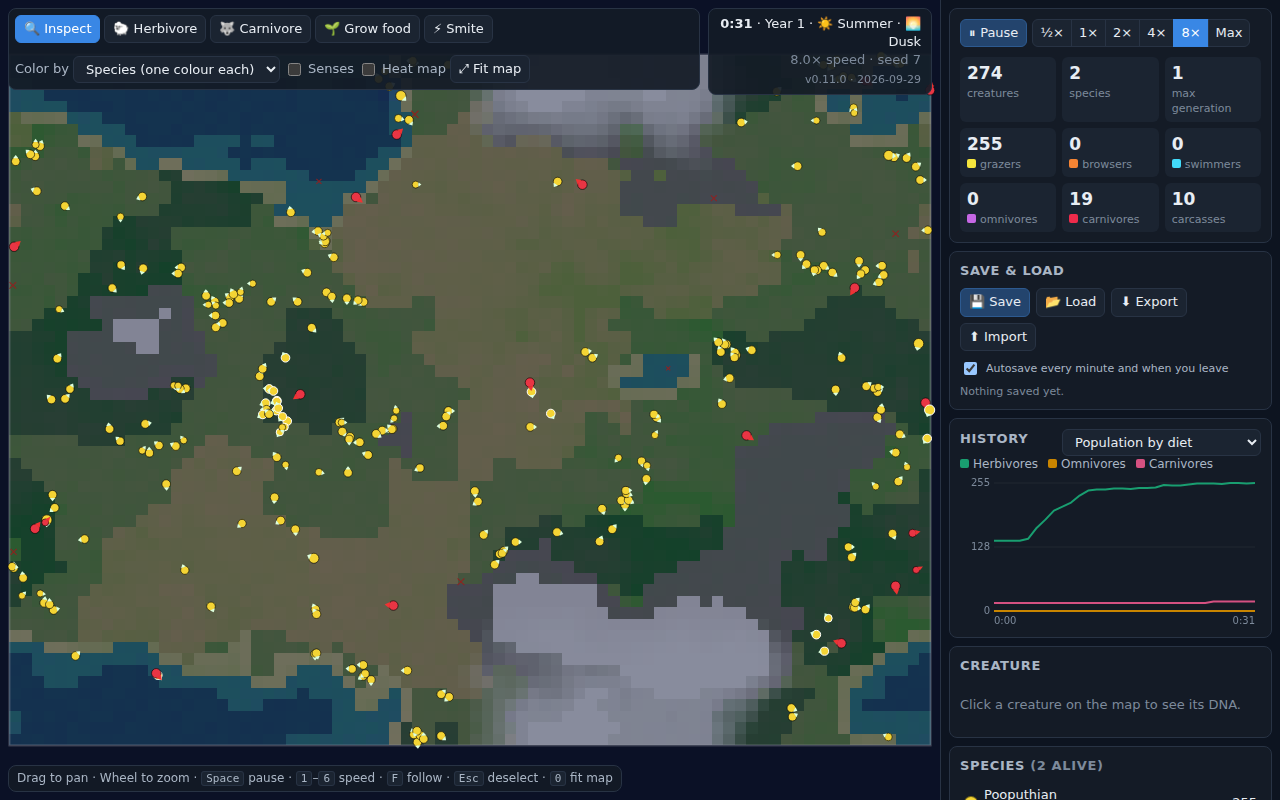
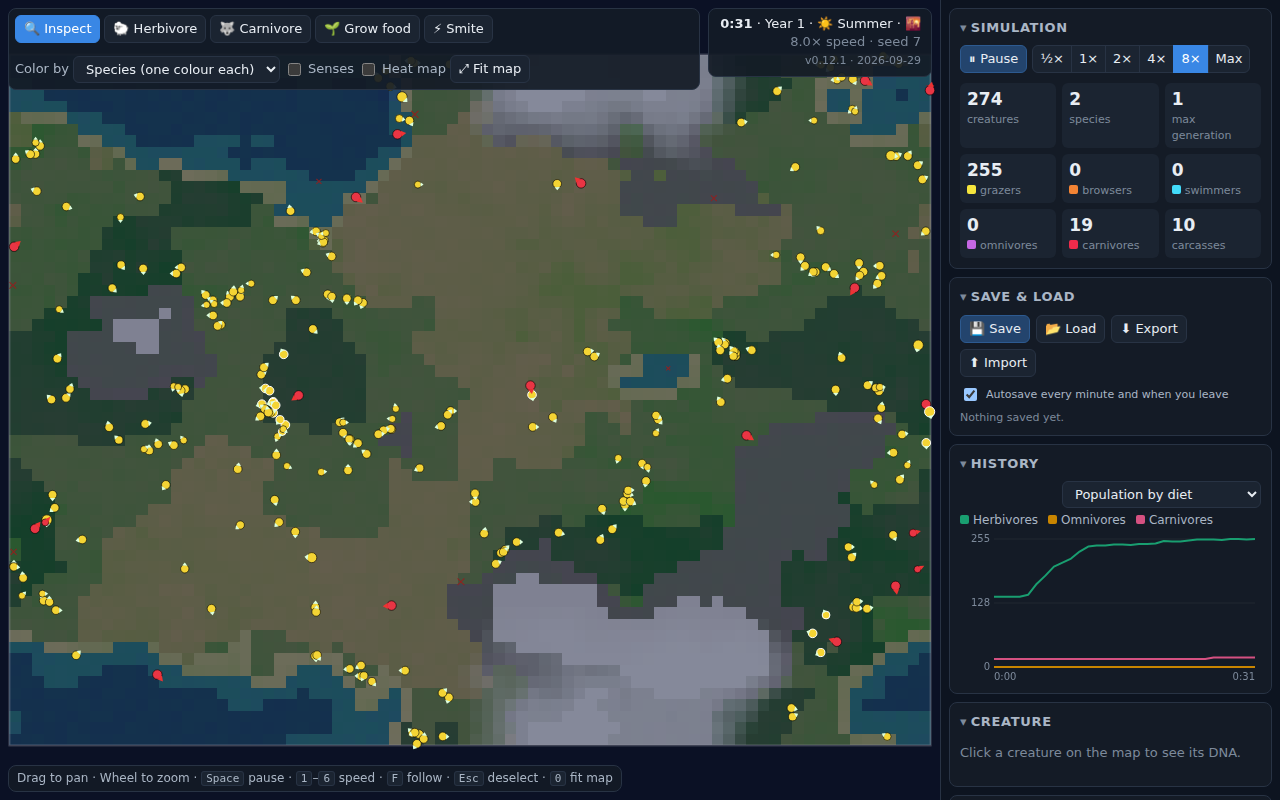
Make every side-panel section collapsible (v0.12.1)
All sections are now <details> panels; open/closed state is remembered in the
browser, and closed panels skip their redraws.

Claude-Session: https://claude.ai/code/session_018NyZGuCwfcsQWqv3LhJXUW

diff --git a/index.html b/index.html
@@ -44,7 +44,8 @@
     </main>
 
     <aside id="side">
-      <section class="panel">
+      <details class="panel" id="panelSim" open>
+        <summary><h2>Simulation</h2></summary>
         <div class="row">
           <button id="playPause" class="primary">⏸ Pause</button>
           <div id="speeds" class="seg">
@@ -57,10 +58,10 @@
           </div>
         </div>
         <div id="stats" class="stats"></div>
-      </section>
+      </details>
 
-      <section class="panel">
-        <h2>Save &amp; load</h2>
+      <details class="panel" id="panelSave" open>
+        <summary><h2>Save &amp; load</h2></summary>
         <div class="row">
           <button id="saveBtn" class="primary" title="Save this world in your browser">💾 Save</button>
           <button id="loadBtn" title="Go back to your last save">📂 Load</button>
@@ -70,40 +71,38 @@
         </div>
         <label class="check small save-auto"><input type="checkbox" id="autosave" /> Autosave every minute and when you leave</label>
         <p id="saveStatus" class="muted small"></p>
-      </section>
+      </details>
 
-      <section class="panel">
-        <div class="row between">
-          <h2>History</h2>
-          <select id="chartMetric"></select>
-        </div>
+      <details class="panel" id="panelHistory" open>
+        <summary><h2>History</h2></summary>
+        <div class="row chart-pick"><select id="chartMetric"></select></div>
         <div id="chartLegend" class="legend"></div>
         <div class="chart-wrap">
           <canvas id="chart"></canvas>
           <div id="chartTip" class="tip"></div>
         </div>
-      </section>
+      </details>
 
-      <section class="panel" id="inspectorPanel">
-        <h2>Creature</h2>
+      <details class="panel" id="inspectorPanel" open>
+        <summary><h2>Creature</h2></summary>
         <div id="inspector"><p class="muted">Click a creature on the map to see its DNA.</p></div>
-      </section>
+      </details>
 
-      <section class="panel">
-        <h2>Species <span id="speciesCount" class="muted"></span></h2>
+      <details class="panel" id="panelSpecies" open>
+        <summary><h2>Species <span id="speciesCount" class="muted"></span></h2></summary>
         <div id="speciesList"></div>
-      </section>
+      </details>
 
-      <section class="panel">
-        <h2>Hall of fame</h2>
+      <details class="panel" id="panelFame" open>
+        <summary><h2>Hall of fame</h2></summary>
         <div id="fame"></div>
-      </section>
+      </details>
 
-      <section class="panel">
-        <h2>Events</h2>
+      <details class="panel" id="panelEvents" open>
+        <summary><h2>Events</h2></summary>
         <div id="disasterButtons" class="row small" title="Start a random event now (Random events × in World settings controls how often they happen on their own)"></div>
         <div id="events"></div>
-      </section>
+      </details>
 
       <details class="panel" id="settingsPanel">
         <summary><h2>World settings</h2></summary>
@@ -116,7 +115,7 @@
           (plant growth, mutation, seasons and caps also apply live).</p>
       </details>
 
-      <details class="panel">
+      <details class="panel" id="panelAbout">
         <summary><h2>How it works</h2></summary>
         <div id="about"></div>
       </details>

diff --git a/js/ui.js b/js/ui.js
@@ -42,6 +42,7 @@
       this.bindCanvas();
       this.bindSave();
       this.bindDisasters();
+      this.bindPanels();
       this.lastUi = 0;
       this.start();
     }
@@ -89,6 +90,21 @@
     }
 
     // ------------------------------------------------------------ save / load
+    // Every side-panel section folds open/closed; remember which are open.
+    bindPanels() {
+      const KEY = 'evolution.panels';
+      let saved = {};
+      try { saved = JSON.parse(localStorage.getItem(KEY) || '{}'); } catch (e) { /* defaults */ }
+      for (const d of document.querySelectorAll('#side > details[id]')) {
+        if (saved[d.id] !== undefined) d.open = saved[d.id];
+        d.addEventListener('toggle', () => {
+          saved[d.id] = d.open;
+          try { localStorage.setItem(KEY, JSON.stringify(saved)); } catch (e) { /* ignore */ }
+          if (d.open && this.sim) this.updateUI(true);
+        });
+      }
+    }
+
     // Buttons that start a random event right away.
     bindDisasters() {
       const box = $('#disasterButtons');
@@ -521,13 +537,15 @@
       const rate = this.paused ? 'paused' : `${fmt(this.simRate.rate, 1)}× speed`;
       $('#hud').innerHTML = `<b>${Evo.fmtTime(sim.time)}</b> · Year ${Math.floor(sim.time / sim.cfg.seasonLength) + 1} · ${icon} ${season}${this.dayHud(sim)}<br><span class="muted">${rate} · seed ${sim.seed}</span>${this.hover ? `<br>🌡 ${fmt(sim.world.tempAtPoint(this.wrapPoint(this.hover).x, this.wrapPoint(this.hover).y, sim.time))} °C here` : ''}${this.disasterHud(sim)}<br><span class="muted small">v${Evo.VERSION.number} · ${Evo.VERSION.date}</span>`;
 
-      this.chart.draw(sim.history);
+      // Closed panels aren't redrawn (they catch up when opened).
+      const open = (id) => $('#' + id).open;
+      if (open('panelHistory')) this.chart.draw(sim.history);
       if (!this.pressing) {
-        this.updateInspector();
+        if (open('inspectorPanel')) this.updateInspector();
         this.updateSpecies();
-        this.updateFame();
+        if (open('panelFame')) this.updateFame();
       }
-      $('#events').innerHTML = sim.events.map((e) => `<div class="${e.important ? 'big' : ''}"><span class="t">${Evo.fmtTime(e.t)}</span>${e.important ? '⭐ ' : ''}${e.html}</div>`).join('') ||
+      if (open('panelEvents')) $('#events').innerHTML = sim.events.map((e) => `<div class="${e.important ? 'big' : ''}"><span class="t">${Evo.fmtTime(e.t)}</span>${e.important ? '⭐ ' : ''}${e.html}</div>`).join('') ||
         '<span class="muted">Nothing yet…</span>';
 
       if (n === 0 && !this.announcedExtinction) {

diff --git a/css/style.css b/css/style.css
@@ -33,6 +33,8 @@ details > summary::before { content: '▸ '; color: var(--muted); }
 details[open] > summary::before { content: '▾ '; }
 details > summary h2 { margin: 0; }
 details[open] > summary { margin-bottom: 8px; }
+details > summary::-webkit-details-marker { display: none; }
+.chart-pick { justify-content: flex-end; margin-bottom: 4px; }
 
 .row { display: flex; gap: 6px; align-items: center; flex-wrap: wrap; }
 .row.between { justify-content: space-between; }

diff --git a/js/version.js b/js/version.js
@@ -2,5 +2,5 @@
 // Bump this with every change that ships to main.
 (function (Evo) {
   'use strict';
-  Evo.VERSION = { number: '0.12.0', date: '2026-09-29' };
+  Evo.VERSION = { number: '0.12.1', date: '2026-09-29' };
 })((globalThis.Evo = globalThis.Evo || {}));

diff --git a/README.md b/README.md
@@ -31,7 +31,8 @@ species (click one to follow a member), a **Hall of fame** (oldest creature, mos
 children, most kills, deepest generation, biggest, fastest, farthest travelled,
 longest-lasting and biggest species; click a living record holder to follow it)
 and an event log (new species, extinctions, new record holders, random events).
-**World settings** lets you change the map size, water level, wrap-around edges,
+Every section of the side panel folds away (click its title); the browser
+remembers which ones you keep open. **World settings** lets you change the map size, water level, wrap-around edges,
 starting populations, plant growth, mutation rate, seasons and more.
 
 ## How the simulation works
